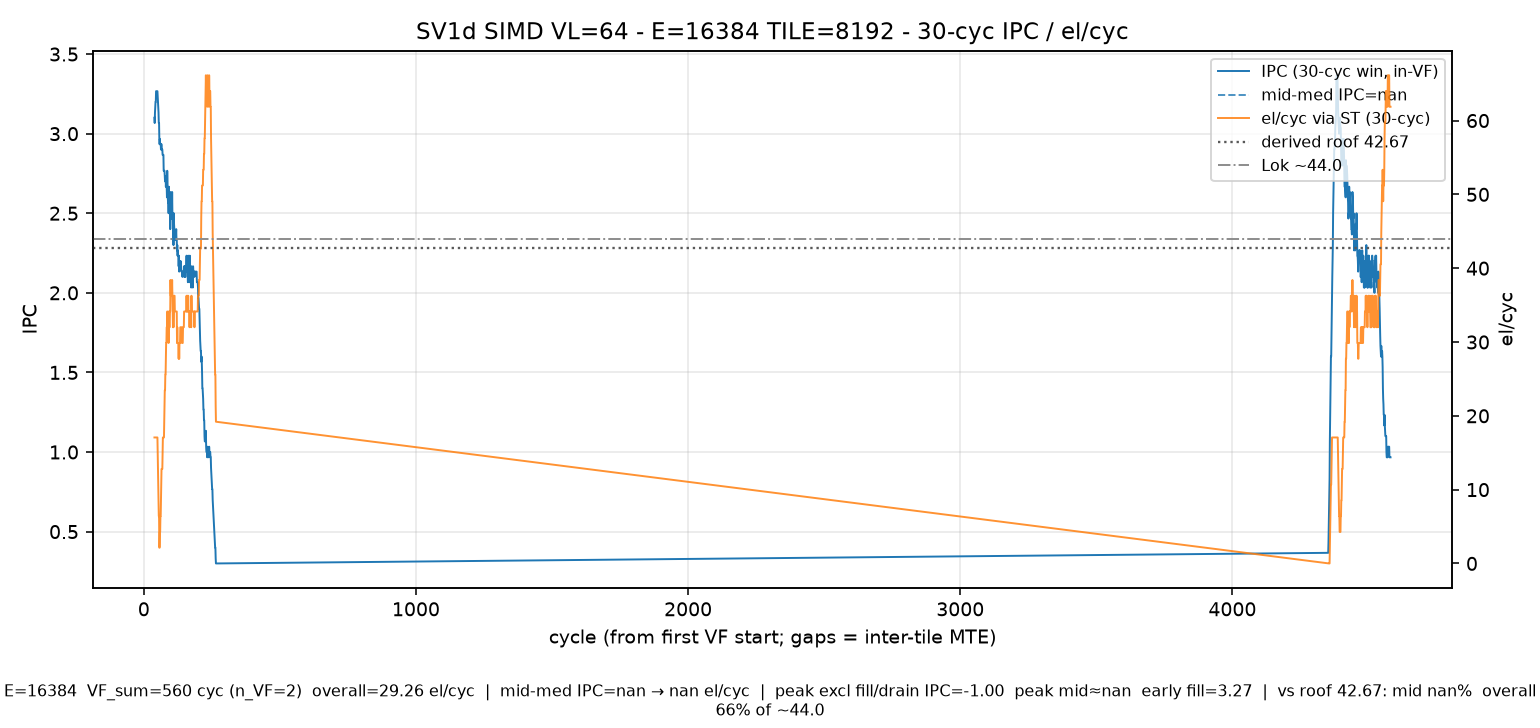
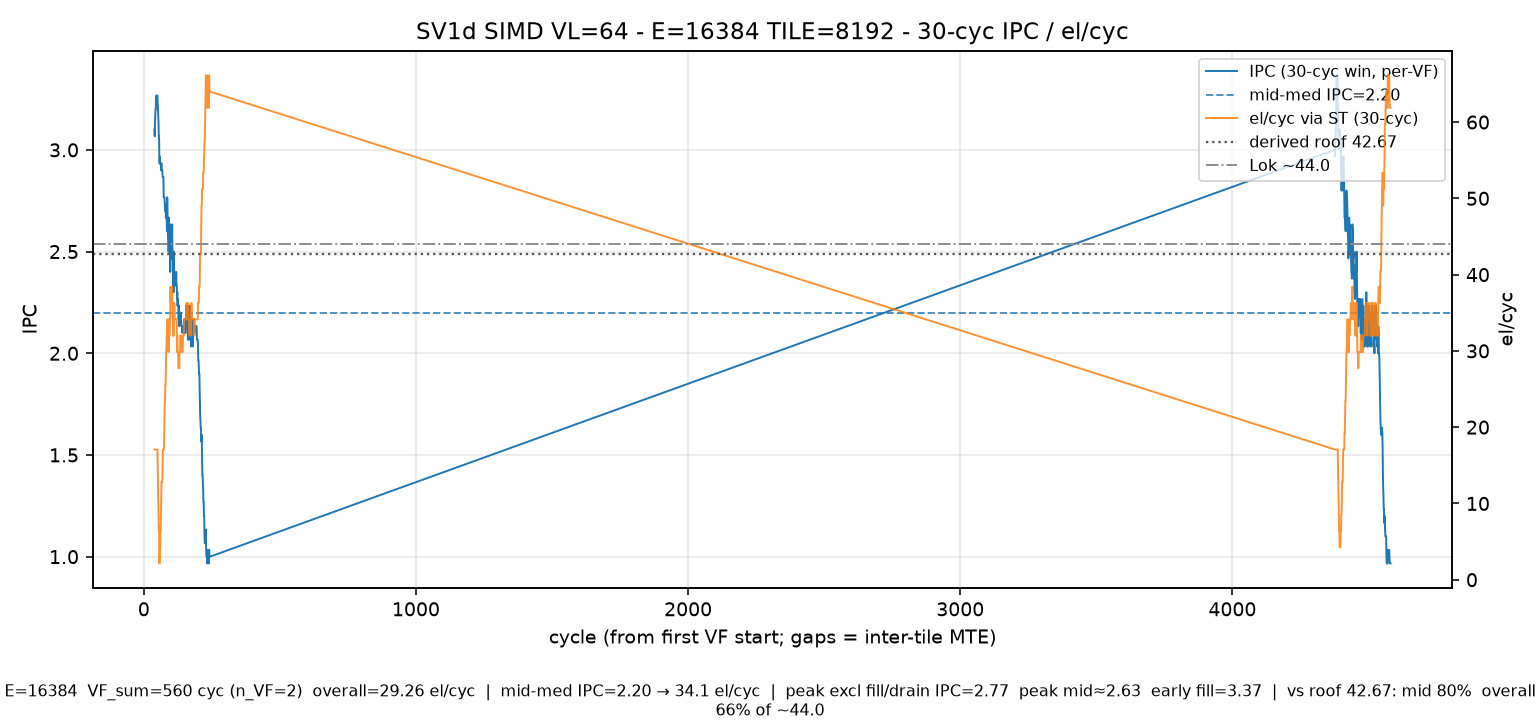
docs(sv1): fix TILE8K SIMD IPC mid-body (per-VF windows)

diff --git a/benches/sv1/scripts/plot_sv1d_ex_ipc_30cyc.py b/benches/sv1/scripts/plot_sv1d_ex_ipc_30cyc.py
@@ -1,8 +1,8 @@
 #!/usr/bin/env python3
 """30-cyc sliding-window IPC / el/cyc for SV1d tiled SIMD (chrome-trace).
 
-Handles multi-VF kernels (one VF per tile): sums VF cycles, and only
-slides windows inside VF intervals so inter-tile MTE gaps do not zero mid-IPC.
+Multi-VF (one VF per tile): sum VF cycles for overall; compute mid-body
+IPC inside each VF interval (15–85%), then pool. Inter-tile MTE gaps excluded.
 """
 from __future__ import annotations
 
@@ -32,93 +32,99 @@ def load(trace: Path, instr: Path):
     vld = sorted([e for e in rv if e["name"] == "RV_VLDI"], key=lambda e: e["ts"])
     vst = sorted([e for e in rv if e["name"] == "RV_VSTI"], key=lambda e: e["ts"])
     vadd = sorted([e for e in rv if e["name"] == "RV_VADD"], key=lambda e: e["ts"])
-    vfs = sorted(
-        [e for e in rv if e.get("name") == "VF" or str(e.get("name", "")).startswith("VF")],
-        key=lambda e: e["ts"],
-    )
-    vf_cyc = 0
+    vfs = sorted([e for e in rv if e.get("name") == "VF"], key=lambda e: e["ts"])
+    vf_rows = []
     for r in csv.DictReader(open(instr)):
         name = (r.get("instr") or "").strip()
         if name in ("VF", "VF_SIMD", "VF_SIMT") or name.startswith("VF_"):
-            vf_cyc += int(float(r["cycles"]))
+            vf_rows.append(int(float(r["cycles"])))
+    vf_cyc = sum(vf_rows)
     if vf_cyc <= 0 or not vfs or not vld or not vst or not vadd:
         raise RuntimeError(
             f"incomplete: vf_cyc={vf_cyc} vfs={len(vfs)} vld={len(vld)} vst={len(vst)} vadd={len(vadd)}"
         )
-    return vld, vst, vadd, vfs, vf_cyc
+    # Pair VF events with cycle counts (same order)
+    if len(vf_rows) != len(vfs):
+        # fall back: equal split
+        each = vf_cyc // len(vfs)
+        vf_rows = [each] * len(vfs)
+        vf_rows[-1] = vf_cyc - each * (len(vfs) - 1)
+    return vld, vst, vadd, vfs, vf_rows, vf_cyc
 
 
-def sliding(vld, vst, vadd, vfs, vf_cyc, E: int):
-    # Calibrate us→cyc from total VF duration vs total VF cycles
-    vf_dur = sum(float(v.get("dur") or 0) for v in vfs)
-    ghz = vf_cyc / (vf_dur * 1000.0) if vf_dur > 0 else 1.8
-    us2cyc = ghz * 1000.0
-    t0 = vfs[0]["ts"]
-
-    def to_cyc(ts_us):
-        return (ts_us - t0) * us2cyc
-
-    # VF intervals in cycles (from first VF start)
-    vf_intervals = []
-    for v in vfs:
-        a = to_cyc(v["ts"])
-        b = to_cyc(v["ts"] + float(v.get("dur") or 0))
-        vf_intervals.append((a, b))
-
-    def in_vf(c):
-        return any(a <= c <= b for a, b in vf_intervals)
-
-    issues = []
-    for e in sorted(vld + vst + vadd, key=lambda z: z["ts"]):
-        name = e["name"]
-        c = to_cyc(e["ts"])
-        if not in_vf(c):
-            continue
-        issues.append(
-            {
-                "c": c,
-                "name": name,
-                "el_st": VL if name == "RV_VSTI" else 0,
-                "el_add": VL if name == "RV_VADD" else 0,
-            }
-        )
-    if len(issues) < 10:
-        raise RuntimeError(f"too few issues in VF intervals: {len(issues)}")
-
-    ic = [x["c"] for x in issues]
-    el_st = [x["el_st"] for x in issues]
-    body_start, body_end = ic[0], ic[-1]
-
-    ts, ipcs, els = [], [], []
+def sliding(vld, vst, vadd, vfs, vf_rows, vf_cyc, E: int):
+    all_ts, all_ipcs, all_els = [], [], []
     mid_ipcs, mid_els = [], []
-    mid_lo = body_start + 0.15 * (body_end - body_start)
-    mid_hi = body_start + 0.85 * (body_end - body_start)
-    mid25 = body_start + 0.25 * (body_end - body_start)
-    mid75 = body_start + 0.75 * (body_end - body_start)
     mid25_ipcs = []
     peak_ipc = -1.0
     peak_excl = -1.0
     early_ipc = -1.0
+    global_t0 = vfs[0]["ts"]
+    # wall→plot-x: use mean GHz from total
+    total_dur = sum(float(v.get("dur") or 0) for v in vfs)
+    ghz = vf_cyc / (total_dur * 1000.0) if total_dur > 0 else 1.8
+    us2cyc_plot = ghz * 1000.0
 
-    # Slide only inside each VF interval to avoid MTE gaps
-    for a, b in vf_intervals:
-        t = max(a, body_start)
-        max_t = min(b, body_end) - WIN_CYC
+    for vi, (vf_e, vf_c) in enumerate(zip(vfs, vf_rows)):
+        vf_ts = vf_e["ts"]
+        vf_dur = float(vf_e.get("dur") or 0)
+        if vf_dur <= 0 or vf_c <= 0:
+            continue
+        us2cyc = vf_c / (vf_dur * 1000.0) * 1000.0  # = vf_c / vf_dur
+
+        def to_local(ts):
+            return (ts - vf_ts) * us2cyc
+
+        def to_plot(ts):
+            return (ts - global_t0) * us2cyc_plot
+
+        # issues belonging to this VF window
+        t_end = vf_ts + vf_dur
+        local_issues = []
+        for e in sorted(vld + vst + vadd, key=lambda z: z["ts"]):
+            if not (vf_ts <= e["ts"] <= t_end):
+                continue
+            name = e["name"]
+            local_issues.append(
+                {
+                    "c": to_local(e["ts"]),
+                    "plot_c": to_plot(e["ts"]),
+                    "name": name,
+                    "el_st": VL if name == "RV_VSTI" else 0,
+                }
+            )
+        if len(local_issues) < 5:
+            continue
+        ic = [x["c"] for x in local_issues]
+        el_st = [x["el_st"] for x in local_issues]
+        plot_c = [x["plot_c"] for x in local_issues]
+        body_start, body_end = ic[0], ic[-1]
+        span = body_end - body_start
+        mid_lo = body_start + 0.15 * span
+        mid_hi = body_start + 0.85 * span
+        mid25 = body_start + 0.25 * span
+        mid75 = body_start + 0.75 * span
+
+        t = body_start
+        max_t = body_end - WIN_CYC
         while t <= max_t + 1e-9:
-            t1 = t + WIN_CYC
             lo = bisect.bisect_left(ic, t)
-            hi = bisect.bisect_left(ic, t1)
+            hi = bisect.bisect_left(ic, t + WIN_CYC)
             n = hi - lo
             ipc = n / WIN_CYC
             el = sum(el_st[lo:hi]) / WIN_CYC
+            # plot x at center in global plot coords
+            # approximate: map local center via linear from body
+            frac = ((t + WIN_CYC / 2) - body_start) / span if span > 0 else 0
+            center_plot = plot_c[0] + frac * (plot_c[-1] - plot_c[0])
+            all_ts.append(center_plot)
+            all_ipcs.append(ipc)
+            all_els.append(el)
             center = t + WIN_CYC / 2
-            ts.append(center)
-            ipcs.append(ipc)
-            els.append(el)
-            if mid_lo <= center <= mid_hi and ipc > 0:
+            if mid_lo <= center <= mid_hi:
                 mid_ipcs.append(ipc)
                 mid_els.append(el)
-            if mid25 <= center <= mid75 and ipc > 0:
+            if mid25 <= center <= mid75:
                 mid25_ipcs.append(ipc)
                 peak_excl = max(peak_excl, ipc)
             if center < mid_lo:
@@ -143,18 +149,16 @@ def sliding(vld, vst, vadd, vfs, vf_cyc, E: int):
         "peak_excl_fill_drain_ipc": peak_excl,
         "peak_mid_ipc": pct(mid25_ipcs, 95) if mid25_ipcs else float("nan"),
         "early_fill_ipc": early_ipc,
-        "body_start": body_start,
-        "body_end": body_end,
-        "n_windows": len(ipcs),
+        "n_windows": len(all_ipcs),
         "n_mid_windows": len(mid_ipcs),
     }
-    return np.array(ts), np.array(ipcs), np.array(els), summary
+    return np.array(all_ts), np.array(all_ipcs), np.array(all_els), summary
 
 
 def plot(ts, ipcs, els, summary, out_png: Path, title: str, E: int):
     fig, ax1 = plt.subplots(figsize=(11, 5.2))
     ax2 = ax1.twinx()
-    ax1.plot(ts, ipcs, color="C0", lw=1.0, label="IPC (30-cyc win, in-VF)")
+    ax1.plot(ts, ipcs, color="C0", lw=1.0, label="IPC (30-cyc win, per-VF)")
     ax2.plot(ts, els, color="C1", lw=1.0, alpha=0.85, label="el/cyc via ST (30-cyc)")
     ax1.axhline(
         summary["mid_med_ipc"],
@@ -202,13 +206,15 @@ def main():
     ap.add_argument("--title", default="")
     args = ap.parse_args()
     title = args.title or f"SV1d SIMD VL=64 — E={args.E} TILE={args.TILE} — 30-cyc IPC / el/cyc"
-    vld, vst, vadd, vfs, vf_cyc = load(Path(args.trace), Path(args.instr))
-    ts, ipcs, els, summary = sliding(vld, vst, vadd, vfs, vf_cyc, args.E)
+    vld, vst, vadd, vfs, vf_rows, vf_cyc = load(Path(args.trace), Path(args.instr))
+    ts, ipcs, els, summary = sliding(vld, vst, vadd, vfs, vf_rows, vf_cyc, args.E)
     summary["E"] = args.E
     summary["TILE"] = args.TILE
     plot(ts, ipcs, els, summary, Path(args.out), title, args.E)
     meta = Path(args.out).with_suffix(".json")
-    meta.write_text(json.dumps(summary, indent=2))
+    # JSON-safe NaN
+    safe = {k: (None if isinstance(v, float) and (v != v) else v) for k, v in summary.items()}
+    meta.write_text(json.dumps(safe, indent=2))
     print(f"WROTE {meta}")
 
 

diff --git a/benches/sv1/ANALYSIS.md b/benches/sv1/ANALYSIS.md
@@ -50,10 +50,10 @@ From that same plot footer (authoritative mid-body IPC @ **E=16K TILE=8K**):
 
 | Metric | Value | vs roof |
 |--------|------:|---------|
-| Mid-body median IPC | **nan** → **~nan el/cyc** | **≈nan%** of 42.67 · **≈nan%** of 44 |
-| Peak excl fill/drain IPC | -1.00 | — |
-| Peak mid IPC | nan | — |
-| Early fill IPC | 3.27 | — |
+| Mid-body median IPC | **2.20** → **~34.1 el/cyc** | **≈80%** of 42.67 · **≈78%** of 44 |
+| Peak excl fill/drain IPC | 2.77 | — |
+| Peak mid IPC | 2.63 | — |
+| Early fill IPC | 3.37 | — |
 | Overall VF (TILE8K) | **29.26 el/cyc** | **≈66%** of 44 · **≈69%** of 42.67 |
 
 ![SIMD E16K TILE8K IPC](plots/sv1d_e16k_tile8k_ex_ipc_30cyc.png)
